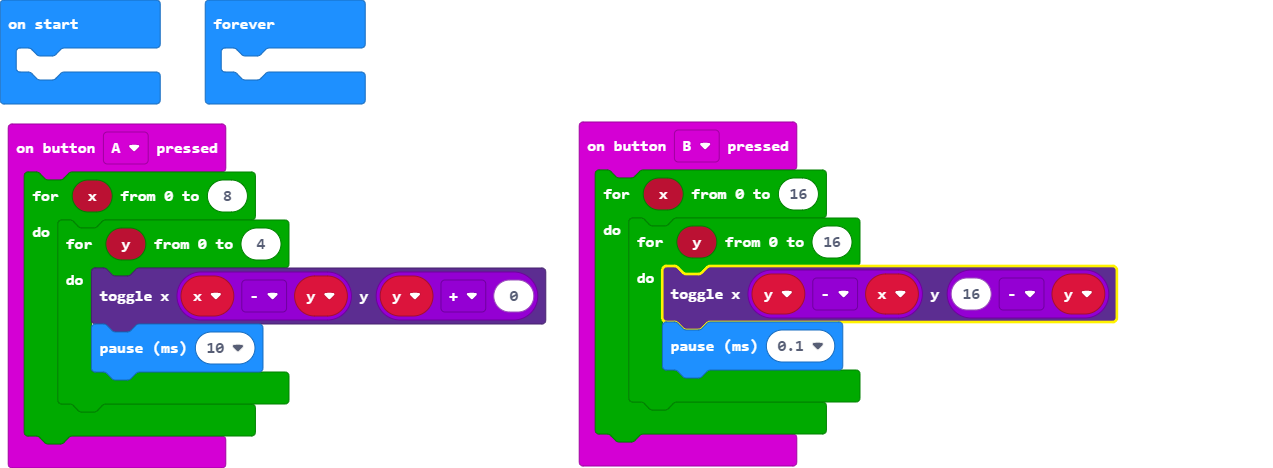
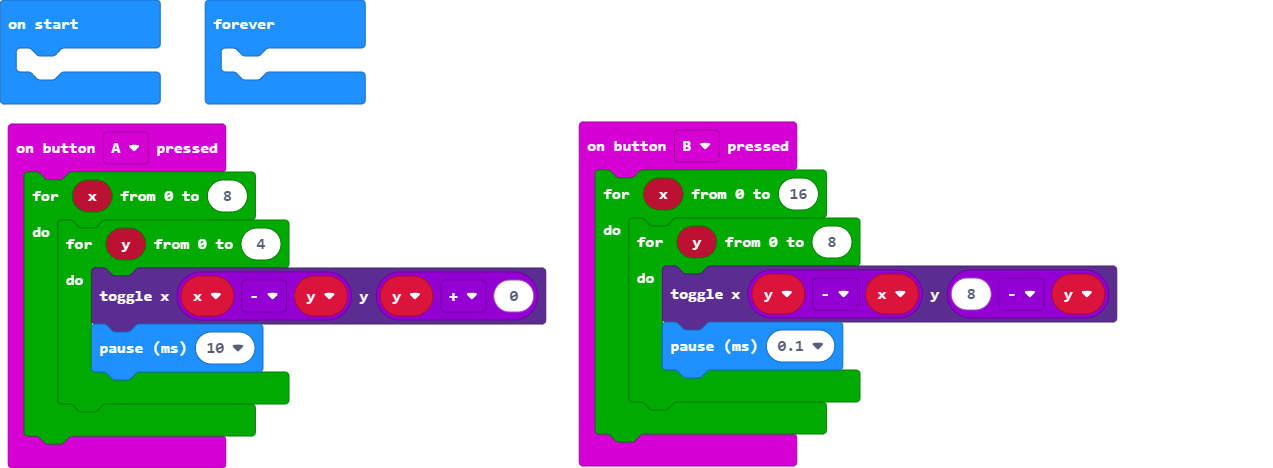
Update main.blocks, main.ts

Changed region(s): [[0.5208, 0.5085, 0.8885, 0.7179]]

diff --git a/main.ts b/main.ts
@@ -8,8 +8,8 @@ input.onButtonPressed(Button.A, function () {
 })
 input.onButtonPressed(Button.B, function () {
     for (let x = 0; x <= 16; x++) {
-        for (let y = 0; y <= 16; y++) {
-            led.toggle(y - x, 16 - y)
+        for (let y = 0; y <= 8; y++) {
+            led.toggle(y - x, 8 - y)
             basic.pause(0.1)
         }
     }
